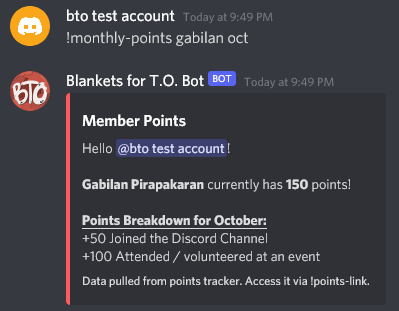
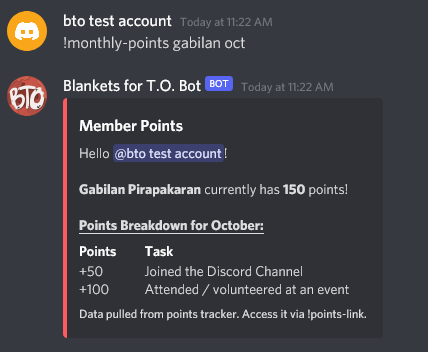
Tabular formatting and event updates
Changed !points, !monthly-points and !top to show data in the form of a leaderboard. Added !events, which updates members on BTO events.

Changed region(s): [[0.0, 0.2026, 0.9323, 0.9839], [0.0, 0.0, 0.6917, 0.1447]]

diff --git a/main.py b/main.py
@@ -1,9 +1,11 @@
-import keep_alive
+import hosting
 import os
 from discord.ext.commands.context import Context
 from discord import message
 import requests
 from typing import List
+from datetime import datetime, timezone
+import contentful
 
 from dotenv import load_dotenv
 import discord
@@ -13,6 +15,11 @@ load_dotenv()
 TOKEN = os.environ['DISCORD_TOKEN']
 GUILD = os.environ['DISCORD_GUILD']
 TESTING_GUILD = os.environ['TESTING_GUILD']
+
+# Contentful Delivery API
+contentful_space_id = os.environ['CONTENTFUL_SPACE_ID']
+contentful_access_token = os.environ['CONTENTFUL_ACCESS_TOKEN'] 
+client = contentful.Client(contentful_space_id, contentful_access_token)
 
 # Embed Message Design
 EMBED_COLOUR = 0xfc5c5c
@@ -152,8 +159,11 @@ async def top(ctx: Context):
 	x = 10
 	points = points[:x]
 	# output the leaderboard
-	info = f'**\nTop {x} Totals of All Time:**\n' + '\n'.join([f'{person[0]} ({person[1]} points)' for person in points])
+	info = f'\n__Top {x} Point Totals__\n'
 	embed = discord.Embed(title='Member Points Leaderboard', description=info, colour=EMBED_COLOUR)
+	embed.add_field(name='#', value='\n'.join([str(x) for x in range(1, x+1)])+'\n', inline=True)
+	embed.add_field(name='Person', value='\n'.join([person[0] for person in points])+'\n', inline=True)
+	embed.add_field(name='Points', value='\n'.join([str(person[1]) for person in points])+'\n', inline=True)
 	embed.set_footer(text='Data pulled from points tracker. Access it via !points-link.')
 	await ctx.send(embed=embed)
     
@@ -193,10 +203,13 @@ async def total_points(ctx: Context, first_name: str = None):
 			for i in range(0, len(categories)): 
 				categories[i] = categories[i].replace('+', '').replace('-', '')
 				if categories[i] != '' and int(categories[i]) != 0:
-					breakdown.append(f'+{int(categories[i])}\t\t{headings[i]}')
-			info = info + '\n\n**__Points Breakdown By Month:__**\n' + ('\n'.join(breakdown))
+					breakdown.append([headings[i], categories[i]])
+			info = info + '\n\n**__Points Breakdown By Month:__**\n'
 			
 		embed = discord.Embed(title='Member Points', description=info, colour=EMBED_COLOUR)
+		if total_points > 0:
+			embed.add_field(name='Month', value='\n'.join([entry[0] for entry in breakdown]), inline=True)
+			embed.add_field(name='Points', value='\n'.join([entry[1] for entry in breakdown]), inline=True)
 		embed.set_footer(text='Data pulled from points tracker. Access it via !points-link.')
 		await ctx.send(embed=embed)
 
@@ -249,15 +262,18 @@ async def monthly_points(ctx: Context, first_name: str = None, month: str = None
 			for i in range(0, len(categories) - 1): 
 				categories[i] = categories[i].replace('+', '').replace('-', '')
 				if categories[i] != '' and int(categories[i]) != 0:
-					breakdown.append(f'+{int(categories[i])}\t\t{headings[i]}')
+					breakdown.append([f'+{int(categories[i])}', headings[i]])
 			
 			redeemed_points = categories[-1].replace('+', '').replace('-', '')
 			if redeemed_points != '' and int(redeemed_points) != 0:
-				breakdown.append(f'-{int(redeemed_points)}\t\tPoints Redeemed for Prizes')
+				breakdown.append([f'-{int(redeemed_points)}', 'Points redeemed for prizes'])
 
-			info = info + f'\n\n**__Points Breakdown for {identified_month.title()}:__**\n' + ('\n'.join(breakdown))
+			info = info + f'\n\n**__Points Breakdown for {identified_month.title()}:__**\n'
 			
 		embed = discord.Embed(title='Member Points', description=info, colour=EMBED_COLOUR)
+		if total_points > 0:
+			embed.add_field(name='Points', value='\n'.join([entry[0] for entry in breakdown]), inline=True)
+			embed.add_field(name='Task', value='\n'.join([entry[1] for entry in breakdown]), inline=True)
 		embed.set_footer(text='Data pulled from points tracker. Access it via !points-link.')
 		await ctx.send(embed=embed)
 
@@ -272,6 +288,26 @@ async def points_link(ctx: Context):
 	info = f'Hello <@{ctx.author.id}>!\n\nView the current members points tally here:\n{sheet_link}\n\nThis spreadsheet is maintained by the executive team. Message them if you have any questions!'
 	embed = discord.Embed(title='Member Points Link', description=info, colour=EMBED_COLOUR)
 	await ctx.send(embed=embed) 
+
+@bot.command(name='events', brief='Print a list of upcoming and recent events.', description='Print a list of upcoming and recent events run by Blankets for T.O.')
+@commands.cooldown(1, 10, commands.BucketType.user)
+async def events(ctx: Context):
+	event_content_type_id = os.environ['EVENT_CONTENT_TYPE_ID']
+	events_by_date = client.entries({'content_type': event_content_type_id, 'order': 'fields.startDate'})
+	past_events = [r for r in events_by_date if r.start_date > datetime.now(timezone.utc)]
+	upcoming_events = [r for r in events_by_date if r.start_date <= datetime.now(timezone.utc)]
+	embed = discord.Embed(title='Upcoming and Recent Events', description='A list of upcoming and recent events organized by Blankets for T.O.', colour=EMBED_COLOUR)
+	if len(upcoming_events) > 0:
+		embed.add_field(name='\n\u200b\n\u200b__UPCOMING EVENTS__', value='\n\u200b', inline=False)
+		for event in upcoming_events:
+			embed.add_field(name=event.event_name + ' (' + event.start_date.strftime('%b %d, %Y') + ')', value=event.description+'\n\u200b', inline=False)
+	if len(past_events) > 0:
+		embed.add_field(name='__PAST EVENTS__', value='\n\u200b', inline=False)
+		for event in past_events:
+			embed.add_field(name=event.event_name + ' (' + event.start_date.strftime('%b %d, %Y') + ')', value=event.description+'\n\u200b', inline=False)
+
+	embed.set_footer(text='Have any questions? Message our Executive Team!')
+	await ctx.send(embed=embed)
 
 # give a link to the rules section 
 @bot.command(name='rules', brief='Access Discord help tips and server rules.', description='Access Discord help tips and server rules for this server.')
@@ -322,10 +358,10 @@ async def on_member_join(member: discord.Member):
 async def on_message(message: message.Message):
 	if message.author != bot.user:
 		if isinstance(message.channel, discord.channel.DMChannel) or message.content.startswith('!') and message.channel.name == 'bot-commands':
-			if message.content.split(' ')[0] not in ['!help', '!points', '!monthly-points', '!get-guilds', '!get-id', '!rules', '!points-link', '!top']:
+			if message.content.split(' ')[0] not in ['!events', '!help', '!points', '!monthly-points', '!get-guilds', '!get-id', '!rules', '!points-link', '!top']:
 				await message.channel.send(f'Hi <@{message.author.id}>. A command could not be recognized in the last message you sent. Check for any misspelling and type "!help" for a list of supported commands.')
 	await bot.process_commands(message)
 	return
 
-keep_alive.keep_alive()
+# hosting.keep_alive()
 bot.run(TOKEN)

diff --git a/hosting.py b/hosting.py
@@ -1,15 +1,15 @@
-from flask import Flask
-from threading import Thread
+# from flask import Flask
+# from threading import Thread
 
-app = Flask('')
+# app = Flask('')
 
-@app.route('/')
-def main():
-    return 'Blankets for T.O. bot is currently active and responding to messages.'
+# @app.route('/')
+# def main():
+#     return 'Blankets for T.O. bot is currently active and responding to messages.'
 
-def run():
-    app.run(host="0.0.0.0", port=8080)
+# def run():
+#     app.run(host="0.0.0.0", port=8080)
 
-def keep_alive():
-    server = Thread(target=run)
-    server.start()
+# def keep_alive():
+#     server = Thread(target=run)
+#     server.start()

diff --git a/README.md b/README.md
@@ -1,13 +1,19 @@
 # Blankets for T.O. Bot
-A Discord bot written in Python for the Blankets for T.O. Discord server.
+A Discord bot written in Python for the Blankets for T.O. Discord server. Features several commands usable by server members and automated private welcome messages.
 
 ## About 
-The bot was written with `discord.py` and it responds to text commands sent via a Discord message. A primary function of the bot is to help keep Blankets for T.O. members updated on their personal points totals under the Member Rewards system. The bot accesses this data by sending requests to Google Sheets API v4, since all Member Rewards points are stored on a public view-only spreadsheet.
+The bot was written with `discord.py` and it responds to text commands sent via a Discord message. A primary function of the bot is to help keep Blankets for T.O. members updated on their personal points totals under the Member Rewards system. The bot accesses this data by sending requests to Google Sheets API v4, since all Member Rewards points are stored on a public view-only spreadsheet. Additionally, 
 
-Made with Python, Flask, [Discord.py](https://discordpy.readthedocs.io/en/stable/#) and [Google Sheets API](https://developers.google.com/sheets/api/)
+Made with Python, Flask, [Discord.py](https://discordpy.readthedocs.io/en/stable/#), [Google Sheets API](https://developers.google.com/sheets/api/), and [Contentful](https://www.contentful.com/)
 
-## Implemented Commands
+## Bot Commands Implemented
 All commands begin with `!`, but can differ in their availability for call in private messages and in servers.
+
+### View recent and upcoming events
+
+The `!events` command shows recent and upcoming events organized by Blankets for T.O., making it convenient for our member community to get updated and involved with our organization.
+
+![Example of calling events command](/screenshots/events.png)
 
 ### Check total rewards points
 
@@ -47,7 +53,7 @@ The `!get-guilds` command is a bot-owner only command that allows the owner to c
 
 The `!get-id` command is a quick command which returns the user their unique Discord ID which is used for @ mentions in bot messages.
 
-## Functionalities 
+## Other Functionalities 
 
 ### Automated private welcome message
 Upon joining the Blankets for T.O. server, the member receives a friendly welcome message encouraging them to introduce themselves. It also suggests where they would find help for how to use Discord and how to navigate the server.
